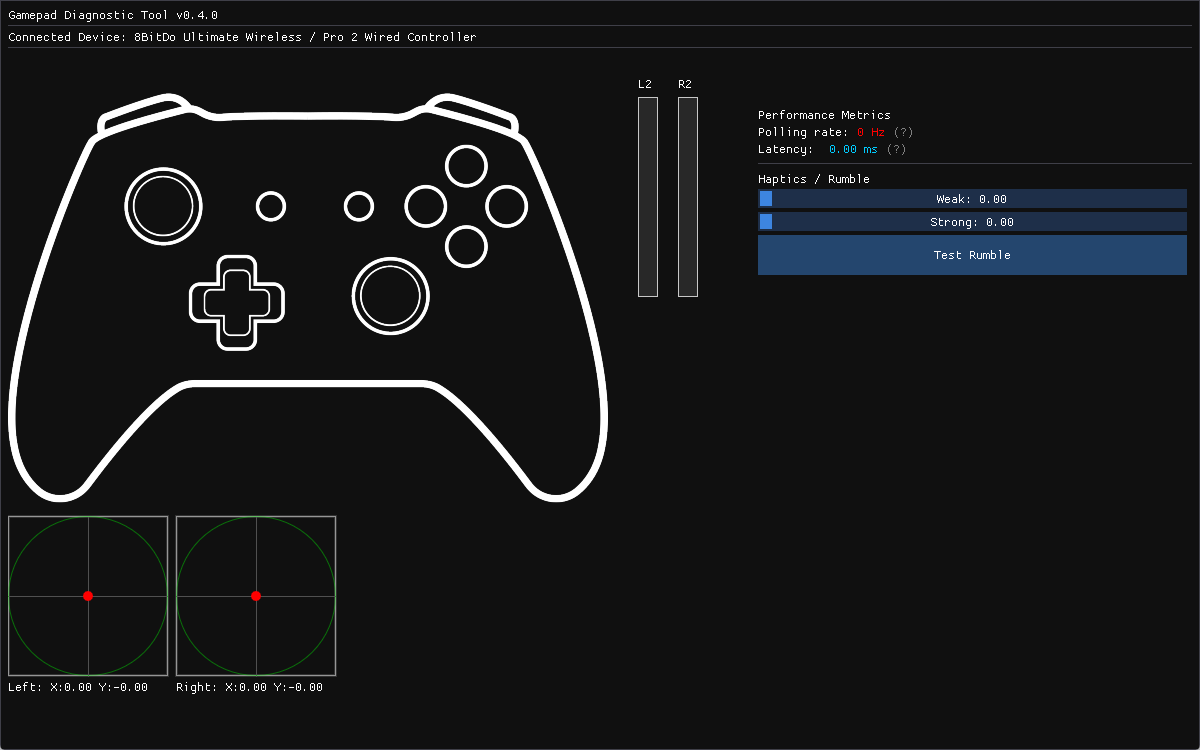
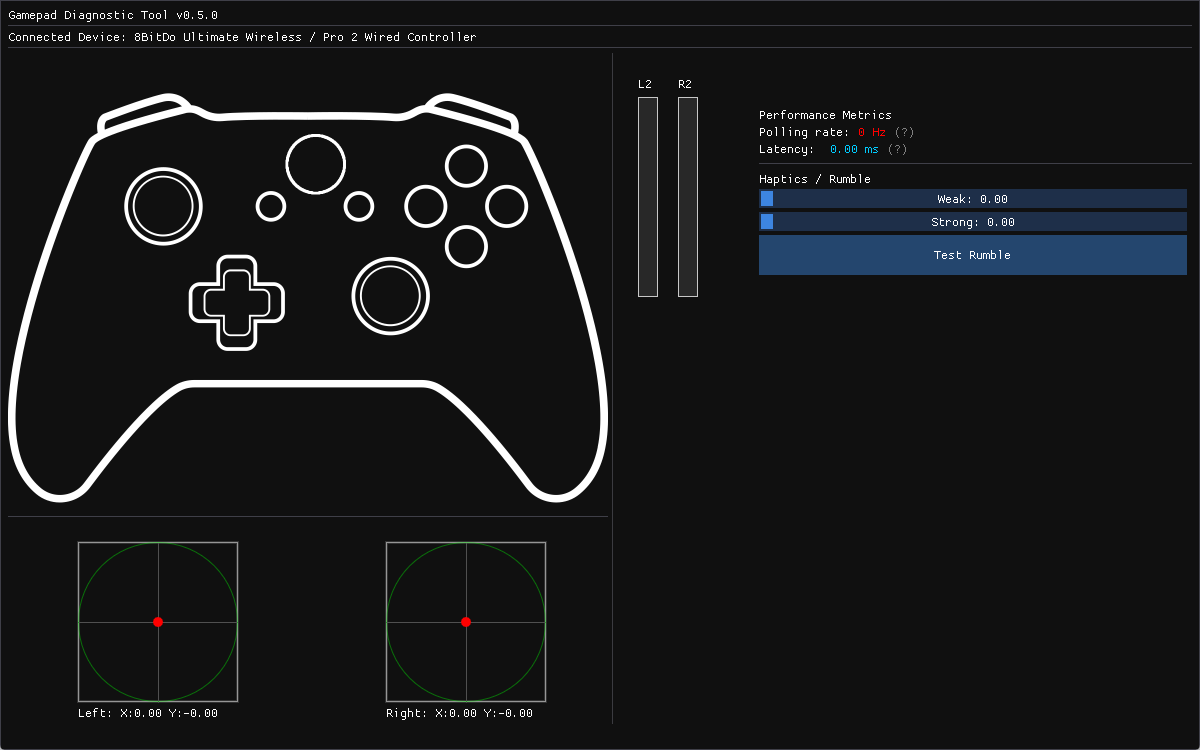
Improved the README.md to feature the usage examples and updated the preview.png to show the latest v0.5.0 version

diff --git a/README.md b/README.md
@@ -11,6 +11,13 @@ A high-performance diagnostic tool for gamepads, built with C++23 and SDL3. Desi
 *   **Input Visualization:** Full mapping for axes, triggers, and buttons with real-time pressure and position feedback.
 *   **Hardware Testing:** Built-in rumble/haptic feedback testing for both weak and strong motors.
 
+## Usage example
+This tool helps you identify hardware issues **before** they impact your gameplay. For example:
+
+*   **Early Drift Detection:** Identify even microscopic stick drift or jitter that isn't yet visible in-game.
+*   **Warranty Validation:** Use precise polling and latency data to verify if your controller meets manufacturer specs or has technical issues, helping you provide proof for warranty claims or returns.
+*   **Performance Optimization:** Ensure your gamepad capabilities are enough for competitive play.
+
 ## Technical Implementation
 
 *   **Modern C++:** Built using the C++23 standard.